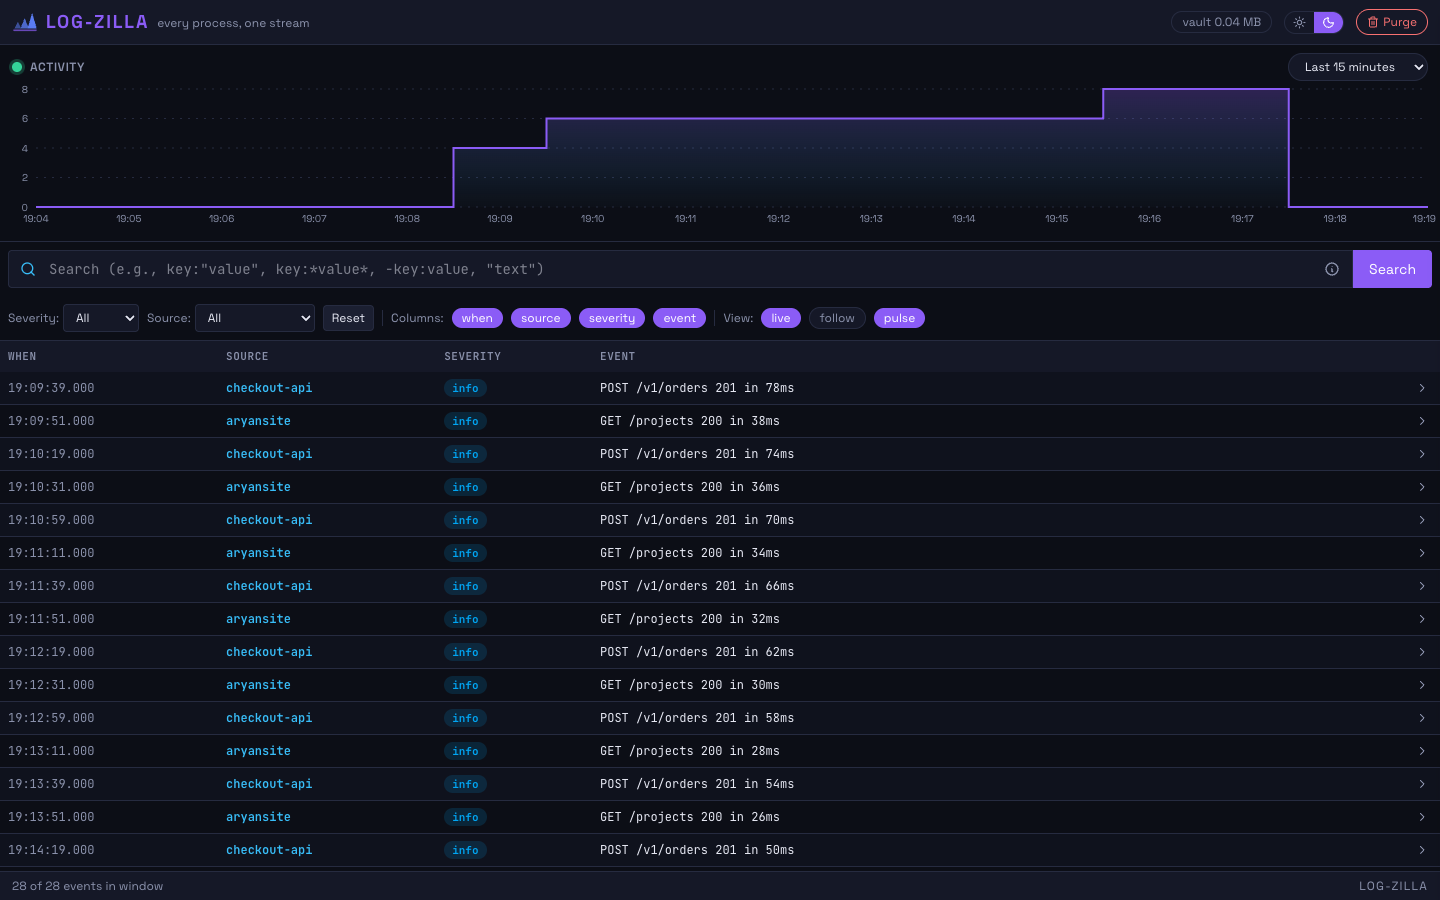
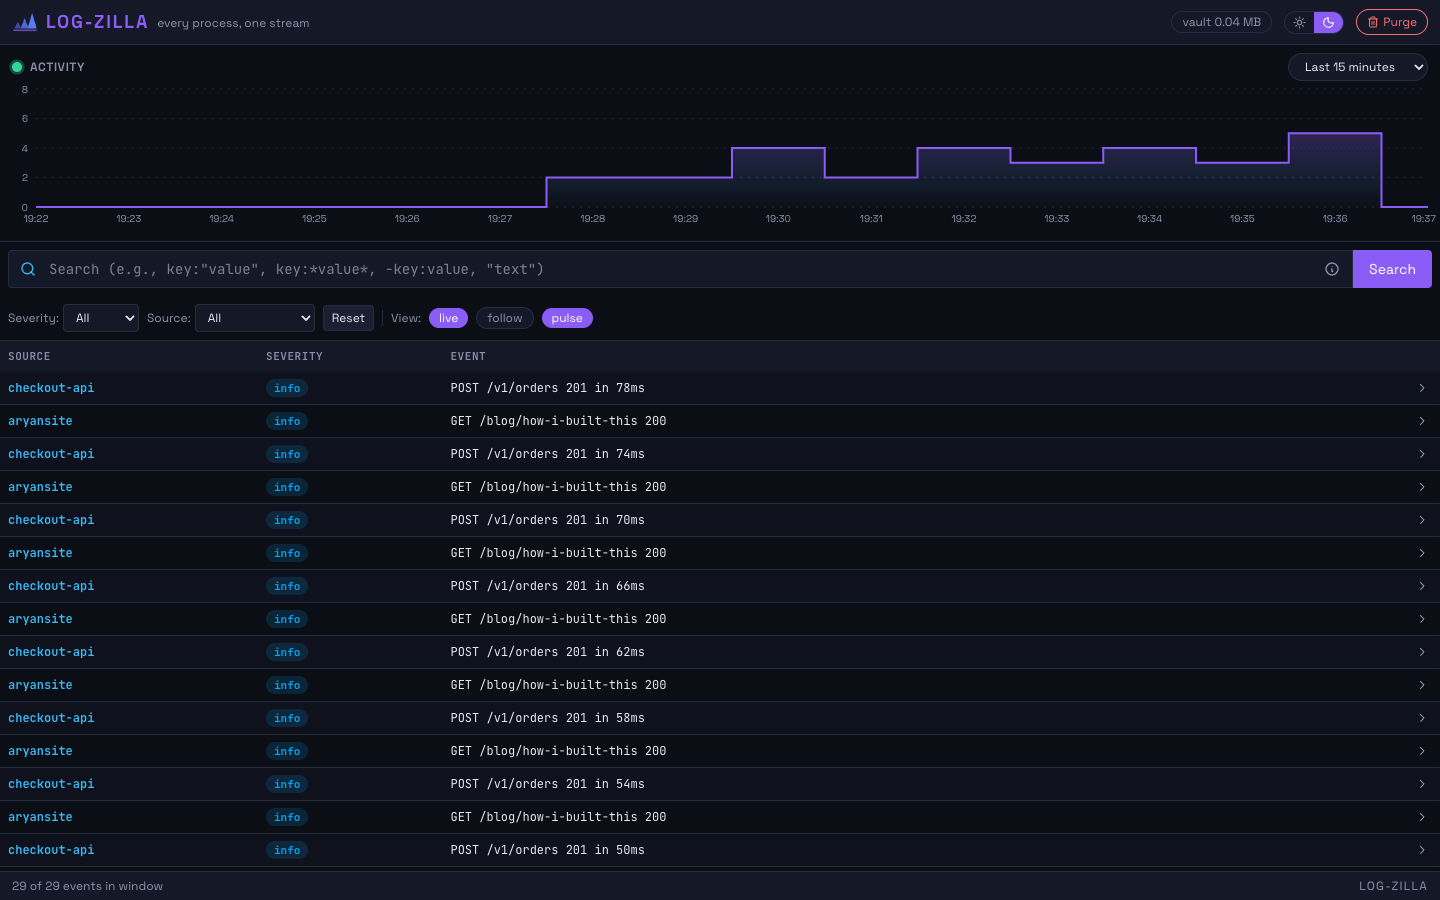
Simplify event stream to fixed source/severity/event columns
Timestamps remain available in the event inspector.

diff --git a/src/ui/StreamConsole.tsx b/src/ui/StreamConsole.tsx
@@ -221,18 +221,6 @@ const StreamConsole: React.FC = () => {
   };
   const [isPolling, setIsPolling] = useState(true);
   const [showGraph, setShowGraph] = useState(true);
-  const [selectedColumns, setSelectedColumns] = useState<string[]>([
-    'timestamp',
-    'service',
-    'level',
-    'message',
-  ]);
-  const availableColumns = [
-    { key: 'timestamp', label: 'when' },
-    { key: 'service', label: 'source' },
-    { key: 'level', label: 'severity' },
-    { key: 'message', label: 'event' },
-  ];
   const [selectedEvent, setSelectedEvent] = useState<StreamEvent | null>(null);
   const [drawerOpen, setDrawerOpen] = useState(false);
 
@@ -894,22 +882,6 @@ const StreamConsole: React.FC = () => {
         extras={
           <>
             <div className="h-4 w-px bg-[var(--zl-border)]"></div>
-            <span className="text-xs text-[var(--zl-muted)]">Columns:</span>
-            {availableColumns.map((column) => (
-              <TogglePill
-                key={column.key}
-                active={selectedColumns.includes(column.key)}
-                label={column.label}
-                onClick={() => {
-                  setSelectedColumns((prev) =>
-                    prev.includes(column.key)
-                      ? prev.filter((c) => c !== column.key)
-                      : [...prev, column.key],
-                  );
-                }}
-              />
-            ))}
-            <div className="h-4 w-px bg-[var(--zl-border)]"></div>
             <span className="text-xs text-[var(--zl-muted)]">View:</span>
             <TogglePill
               active={isPolling}
@@ -946,44 +918,20 @@ const StreamConsole: React.FC = () => {
           <table className="w-full font-mono text-xs">
             <thead className="sticky top-0 bg-[var(--zl-surface)]">
               <tr>
-                {selectedColumns.includes('timestamp') && (
-                  <th className="p-2 text-left text-[11px] font-semibold tracking-wider text-[var(--zl-muted)] uppercase">
-                    When
-                  </th>
-                )}
-                {selectedColumns.includes('service') && (
-                  <th className="p-2 text-left text-[11px] font-semibold tracking-wider text-[var(--zl-muted)] uppercase">
-                    Source
-                  </th>
-                )}
-                {selectedColumns.includes('level') && (
-                  <th className="p-2 text-left text-[11px] font-semibold tracking-wider text-[var(--zl-muted)] uppercase">
-                    Severity
-                  </th>
-                )}
-                {selectedColumns.includes('message') && (
-                  <th className="p-2 text-left text-[11px] font-semibold tracking-wider text-[var(--zl-muted)] uppercase">
-                    Event
-                  </th>
-                )}
+                <th className="p-2 text-left text-[11px] font-semibold tracking-wider text-[var(--zl-muted)] uppercase">
+                  Source
+                </th>
+                <th className="p-2 text-left text-[11px] font-semibold tracking-wider text-[var(--zl-muted)] uppercase">
+                  Severity
+                </th>
+                <th className="p-2 text-left text-[11px] font-semibold tracking-wider text-[var(--zl-muted)] uppercase">
+                  Event
+                </th>
                 <th className="w-8"></th>
               </tr>
             </thead>
             <tbody>
               {visibleEvents.map((event) => {
-                const formatTimestamp = (timestamp: string) => {
-                  try {
-                    const date = new Date(timestamp);
-                    return (
-                      date.toLocaleTimeString() +
-                      '.' +
-                      date.getMilliseconds().toString().padStart(3, '0')
-                    );
-                    // eslint-disable-next-line @typescript-eslint/no-unused-vars
-                  } catch (e) {
-                    return timestamp;
-                  }
-                };
                 return (
                   <tr
                     key={event.id}
@@ -991,34 +939,21 @@ const StreamConsole: React.FC = () => {
                     className="cursor-pointer border-b border-[var(--zl-border)] text-[var(--zl-text)] transition-colors duration-500 odd:bg-[var(--zl-surface)]/40 hover:bg-[var(--zl-surface-2)] data-[selected=true]:bg-[var(--zl-surface-2)]"
                     onClick={() => openEventDrawer(event)}
                   >
-                    {selectedColumns.includes('timestamp') && (
-                      <td className="p-2 whitespace-nowrap text-[var(--zl-muted)]">
-                        {formatTimestamp(event.timestamp)}
-                      </td>
-                    )}
-                    {selectedColumns.includes('service') && (
-                      <td className="p-2">
-                        <span className="font-semibold text-[var(--zl-key)]">
-                          {event.service || 'unknown'}
-                        </span>
-                      </td>
-                    )}
-                    {selectedColumns.includes('level') && (
-                      <td className="p-2">
-                        <span
-                          className={`rounded-full px-2 py-0.5 text-[11px] font-semibold ${severityBadge(
-                            event.level,
-                          )}`}
-                        >
-                          {(event.level || 'unknown').toLowerCase()}
-                        </span>
-                      </td>
-                    )}
-                    {selectedColumns.includes('message') && (
-                      <td className="max-w-md truncate p-2">
-                        {event.message}
-                      </td>
-                    )}
+                    <td className="p-2">
+                      <span className="font-semibold text-[var(--zl-key)]">
+                        {event.service || 'unknown'}
+                      </span>
+                    </td>
+                    <td className="p-2">
+                      <span
+                        className={`rounded-full px-2 py-0.5 text-[11px] font-semibold ${severityBadge(
+                          event.level,
+                        )}`}
+                      >
+                        {(event.level || 'unknown').toLowerCase()}
+                      </span>
+                    </td>
+                    <td className="max-w-md truncate p-2">{event.message}</td>
                     <td className="p-2 text-right">
                       <svg
                         className="h-3 w-3 text-[var(--zl-muted)]"

diff --git a/COMPLETE_SETUP.md b/COMPLETE_SETUP.md
@@ -69,7 +69,7 @@ Open **http://localhost:5454**.
 - **Search bar** — supports structured queries: `key:"value"` exact match, `key:*value*` contains, `-key:value` exclude, bare `"text"` searches all fields. Hover the ⓘ icon for the cheat sheet.
 - **Severity / Source dropdowns** — one-click narrowing; the lists populate from whatever you've ingested.
 - **Time range** — presets from 15 minutes to 30 days, plus a custom range picker, above the activity graph.
-- **View pills** — `live` (auto-refresh), `follow` (auto-scroll), `pulse` (activity graph), and per-column visibility, all in the filter row.
+- **View pills** — `live` (auto-refresh), `follow` (auto-scroll), `pulse` (activity graph), all in the filter row.
 - **Row click** — opens the event inspector; every attribute can be copied or turned into a filter with one click.
 
 ![Log detail drawer](screenshots/log-details.png)

diff --git a/README.md b/README.md
@@ -86,7 +86,7 @@ Prefer daylight? The sun/moon switch lives in the top-right:
 
 ### View controls
 
-The pills next to the filters control the console itself: **live** (auto-refresh), **follow** (auto-scroll), **pulse** (activity graph), plus per-column visibility. The **Purge** button in the header deletes stored logs by source and age.
+The pills next to the filters control the console itself: **live** (auto-refresh), **follow** (auto-scroll), **pulse** (activity graph). The **Purge** button in the header deletes stored logs by source and age.
 
 ## Configuration
 